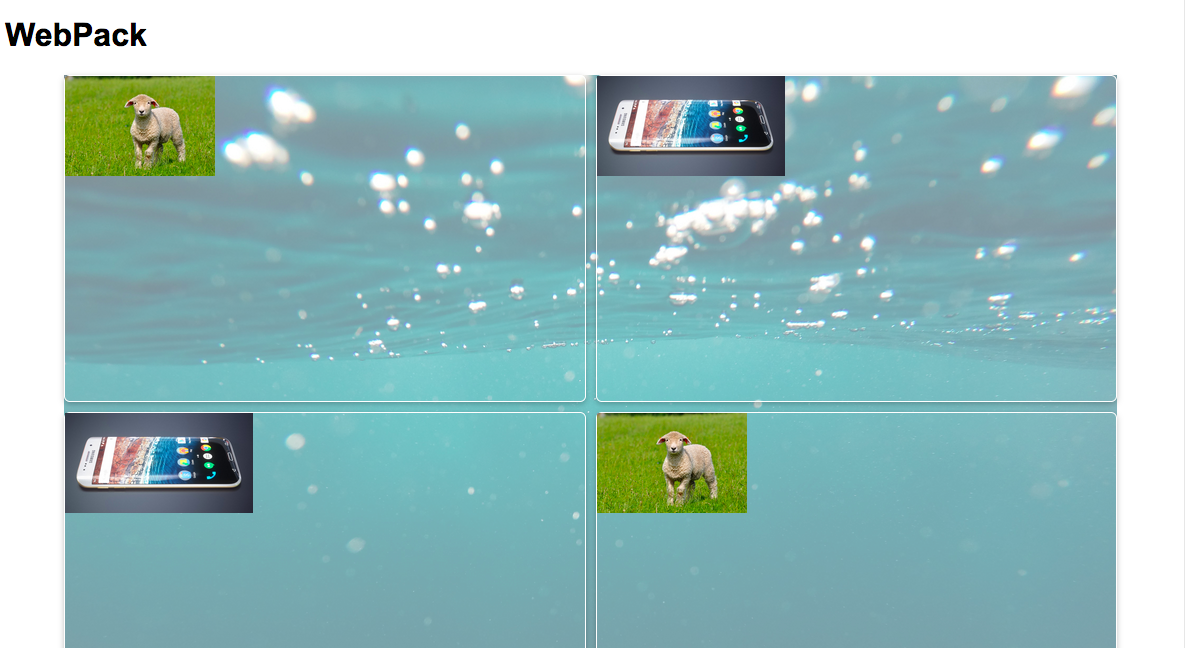
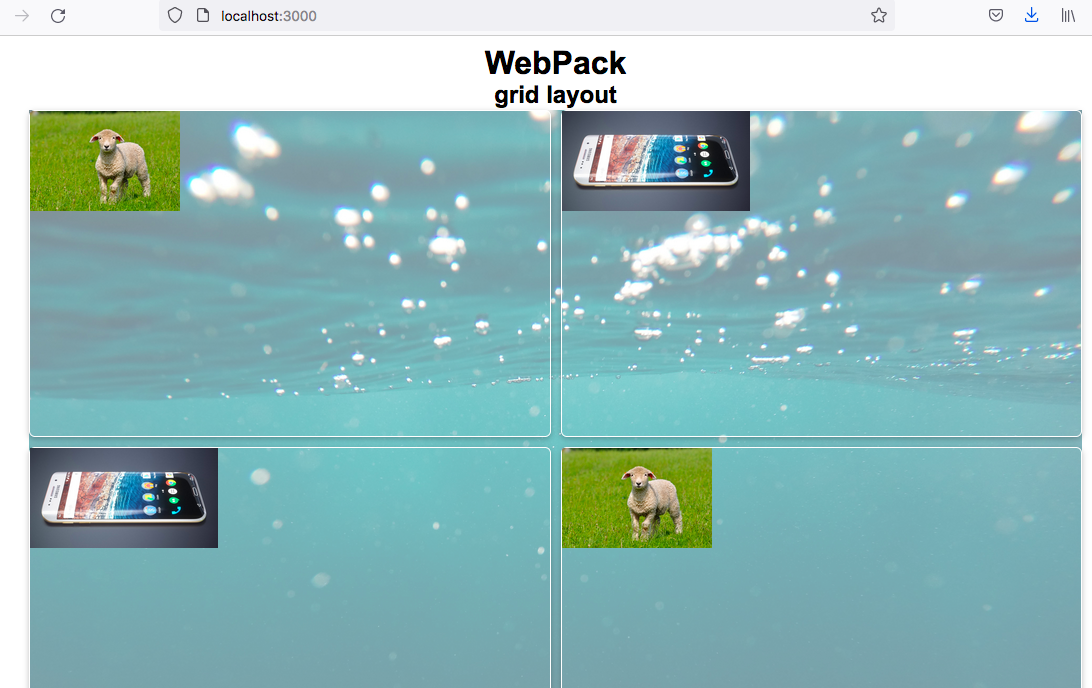
add webpack developping server

diff --git a/webpack.config.js b/webpack.config.js
@@ -41,4 +41,16 @@ module.exports = {
   },
   plugins: [new HtmlWebpackPlugin({ template: './src/index.html' })],
   mode: 'development',
+
+  // development server (automatically bundled, fresh browser)
+  // bundled files only exist in memory ,not in build folder
+  // $npx webpack-dev-server
+  devServer: {
+    contentBase: resolve(__dirname, 'build'),
+    // gzip
+    compress: true,
+    port: 3000,
+    // automatically open a local browser
+    open: true,
+  },
 };

diff --git a/src/index.html b/src/index.html
@@ -5,10 +5,10 @@
     <meta http-equiv="X-UA-Compatible" content="IE=edge" />
     <meta name="viewport" content="width=device-width, initial-scale=1.0" />
     <title>Webpack4</title>
-   
   </head>
   <body>
     <h1>WebPack</h1>
+    <h2>grid layout</h2>
     <div class="main">
       <div class="img_wrapper">
         <img src="assets/sheep1.jpg" alt="sheep1" />

diff --git a/src/assets/index.less b/src/assets/index.less
@@ -41,3 +41,10 @@
   max-height: 100px;
   object-fit: cover;
 }
+
+h1,
+h2 {
+  margin: 0;
+  padding: 0;
+  text-align: center;
+}

diff --git a/src/index.js b/src/index.js
@@ -1,1 +1,6 @@
 import './assets/index.less';
+
+function add(a, b) {
+  return a + b;
+}
+console.log('2+3=', add(2, 3));
